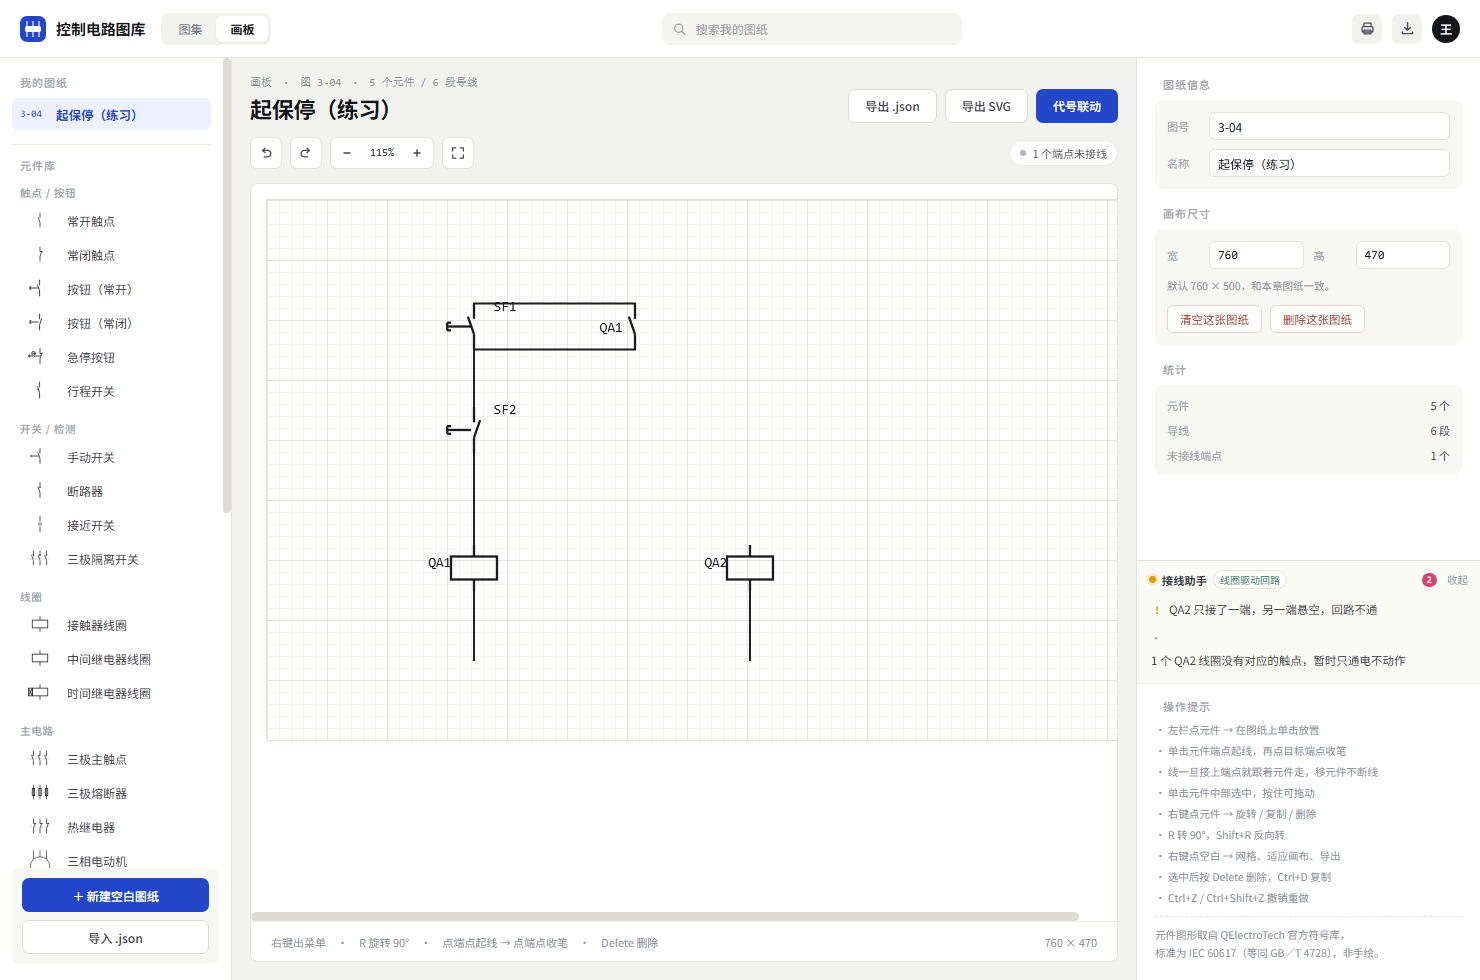
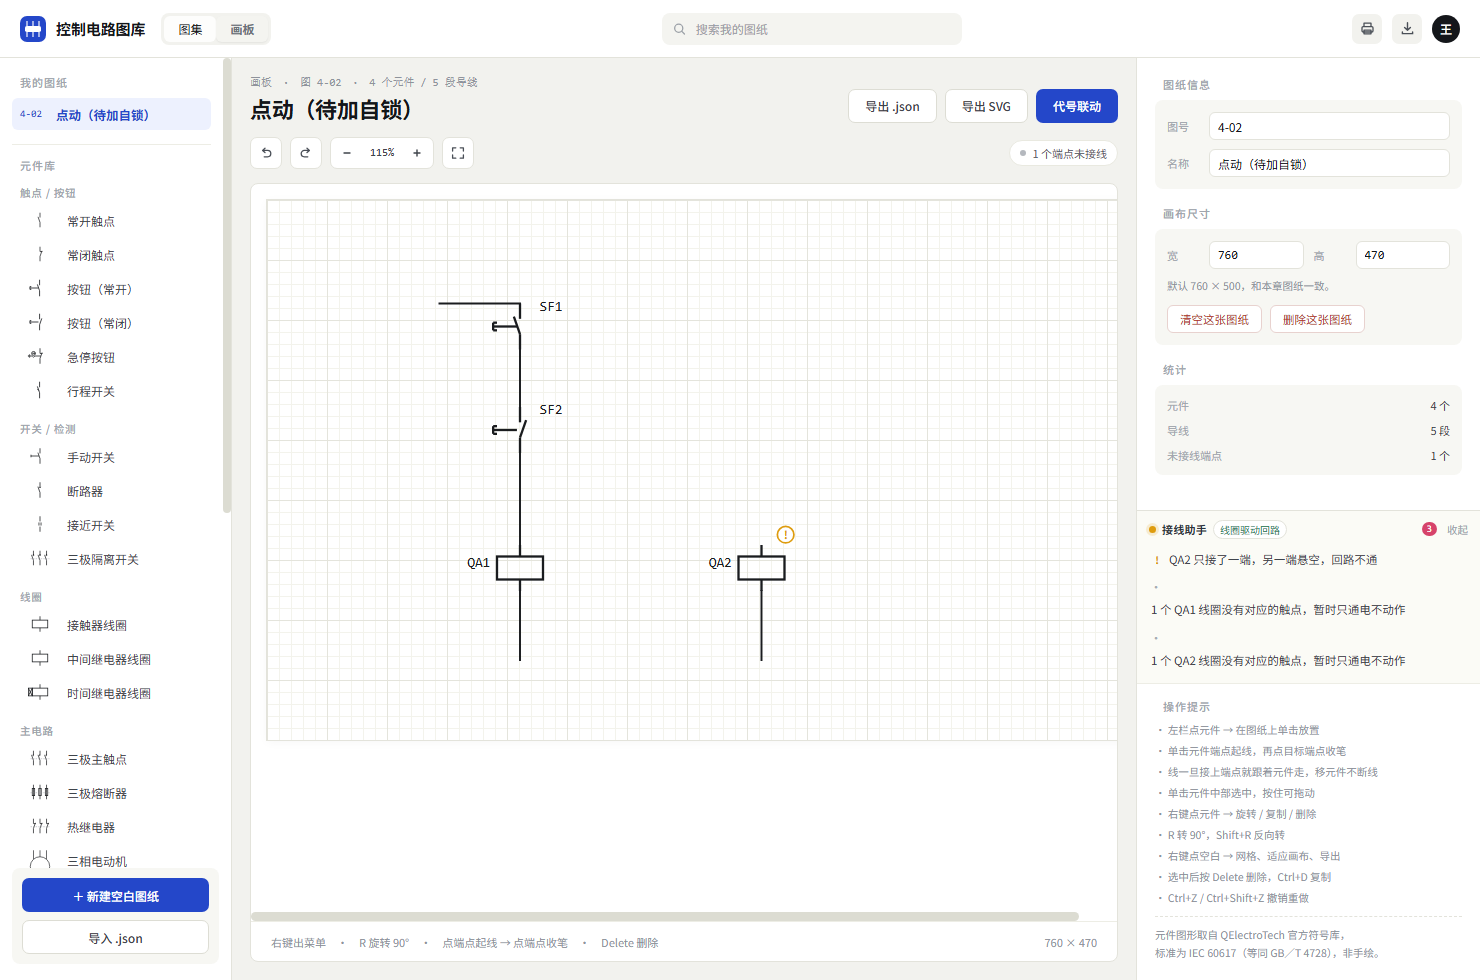
接线助手：画布定位标记 + 一键补自锁
- 诊断在 paint 时同步算一次，画布上直接在问题元件角上标 × / !
- 点动回路可一键补上同名常开触点并自动并联到按钮两端（补完助手自检为零问题）
- 线圈代号与框的间距从 2px 拉到 8px，不再贴边

diff --git a/js/editor-ui.js b/js/editor-ui.js
@@ -268,7 +268,10 @@
   function paint() {
     var d = st.doc;
     if (!d) return;
-    var inner = M.renderInner(d) + '<g class="ovl">' + overlaySvg() + '</g>';
+    var base = M.renderInner(d);   // 顺带把绑在引脚上的导线端点刷新到最新位置
+    // 诊断在这里同步算一次：画布标记和右侧面板共用，几十个元件 1ms 量级
+    st.adv = window.PLCAdvisor ? window.PLCAdvisor.analyze(d) : null;
+    var inner = base + '<g class="ovl">' + overlaySvg() + '</g>';
     el.canvas.innerHTML = M.svgWrap(d, inner);
     var svg = el.canvas.querySelector('svg');
     svg.classList.toggle('sim', !!st.sim);
@@ -354,6 +357,28 @@
     var r = selBox();
     if (r) o += '<rect class="sel-box" x="' + M.n(r.x) + '" y="' + M.n(r.y) +
       '" width="' + M.n(r.w) + '" height="' + M.n(r.h) + '"/>';
+
+    // 接线助手的问题标记：直接标在出问题的元件角上，不用来回看右栏
+    if (st.adv && st.adv.issues && st.adv.issues.length) {
+      var marked = 0;
+      st.adv.issues.forEach(function (it) {
+        if (marked >= 8 || it.level === 'info') return;
+        if (!it.target || it.target.kind !== 'comp') return;
+        var c = findComp(it.target.id);
+        if (!c) return;
+        var b = M.boxOf(c);
+        var mx = b.x + b.w + 3, my = b.y - 3;
+        var col = it.level === 'error' ? '#D6436B' : '#DE9C0E';
+        o += '<g class="adv-mark">' +
+          '<circle cx="' + M.n(mx) + '" cy="' + M.n(my) + '" r="7.2" fill="#FFFFFF" stroke="' +
+          col + '" stroke-width="1.5"/>' +
+          '<text x="' + M.n(mx) + '" y="' + M.n(my + 3.4) + '" font-size="9.5" font-weight="700" fill="' +
+          col + '" text-anchor="middle" font-family="' + M.SANS + '">' +
+          (it.level === 'error' ? '\u00d7' : '!') + '</text>' +
+          '</g>';
+        marked++;
+      });
+    }
 
     // 对齐参考线：拖元件时的共线提示
     if (st.guides && st.guides.length) {
@@ -1251,7 +1276,7 @@
       el.adv.innerHTML = '';
       return;
     }
-    var res = window.PLCAdvisor.analyze(st.doc);
+    var res = st.adv || window.PLCAdvisor.analyze(st.doc);
     st.adv = res;
 
     var dot = res.level === 'error' ? 'bad' : (res.level === 'warn' ? 'warn' : 'ok');
@@ -1268,6 +1293,13 @@
 
     if (!st.advOpen) { el.adv.innerHTML = head; return; }
 
+    // 能自动补的常见场景：点动回路还差一个自锁触点
+    var auto = canAutoSelfLock();
+    var act = auto
+      ? '<div class="adv-act"><span>差一个自锁触点</span>' +
+        '<button type="button" data-act="selflock">帮我放上</button></div>'
+      : '';
+
     var body = '';
     if (!res.issues.length) {
       body = '<div class="adv-empty">接法没问题，可以继续。</div>';
@@ -1283,12 +1315,81 @@
         body += '<div class="adv-more">另外还有 ' + (res.issues.length - 6) + ' 条</div>';
       }
     }
-    el.adv.innerHTML = head + '<div class="adv-body">' + body + '</div>';
+    el.adv.innerHTML = head + act + '<div class="adv-body">' + body + '</div>';
+  }
+
+  /* ---------- 一键补齐：给点动回路加自锁触点 ---------- */
+  function canAutoSelfLock() {
+    var res = st.adv;
+    if (!res || !res.intent || res.intent.key !== 'jog' || !st.doc) return null;
+    var btn = null, coil = null;
+    st.doc.comps.forEach(function (c) {
+      if (!btn && (c.type === 'btnNo' || (c.type === 'no' && /^S[A-Z]?/i.test(c.key || '')))) btn = c;
+      if (!coil && (c.type === 'coil' || c.type === 'kCoil') && c.key) coil = c;
+    });
+    if (!btn || !coil) return null;
+    // 已经同名的常开触点存在就不再多放
+    var has = st.doc.comps.some(function (c) {
+      return c.type === 'no' && c.key === coil.key;
+    });
+    if (has) return null;
+    return { btn: btn, coil: coil };
+  }
+
+  function occupiedAt(box) {
+    return st.doc.comps.some(function (c) {
+      var b = M.boxOf(c);
+      return !(b.x > box.x + box.w || b.x + b.w < box.x || b.y > box.y + box.h || b.y + b.h < box.y);
+    });
+  }
+
+  function wireBetween(a, b, ba, bb) {
+    var pts = [[a[0], a[1]]].concat(orthoPath([a[0], a[1]], [b[0], b[1]]));
+    var w = { id: M.uid('w'), pts: pts };
+    if (ba) w.a = ba;
+    if (bb) w.b = bb;
+    M.resolveWire(st.doc, w);
+    st.doc.wires.push(w);
+  }
+
+  function addSelfLock() {
+    var p = canAutoSelfLock();
+    if (!p) return;
+    var t = M.TYPES.no;
+    var probe = t.make(p.btn.x + 120, p.btn.y);
+    probe.type = 'no';
+    var tries = 0;
+    while (tries++ < 8 && occupiedAt(M.boxOf(probe))) {
+      probe.x += 70;
+      if (probe.x > st.doc.w - 90) { probe.x = p.btn.x - 120; }
+    }
+    var c = t.make(probe.x, probe.y);
+    c.type = 'no';
+    c.id = M.uid('c');
+    c.key = p.coil.key;
+    c.label = {
+      text: c.key, ox: t.label.ox, oy: t.label.oy,
+      anchor: t.label.anchor, size: t.label.size
+    };
+    st.doc.comps.push(c);
+
+    // 并联在按钮两端：按钮上脚 ↔ 自锁上脚，自锁下脚 ↔ 按钮下脚
+    var bp = M.pinsOfComp(p.btn), cp = M.pinsOfComp(c);
+    wireBetween(bp[0], cp[0], { c: p.btn.id, i: 0 }, { c: c.id, i: 0 });
+    wireBetween(cp[1], bp[1], { c: c.id, i: 1 }, { c: p.btn.id, i: 1 });
+
+    st.sel = { kind: 'comp', id: c.id };
+    commit();
+    paint();
+    renderInspector();
+    flash('已补上 ' + c.key + ' 自锁触点，并联在按钮两端');
   }
 
   function onAdvClick(e) {
     var tg = e.target.closest ? e.target.closest('.adv-toggle') : null;
     if (tg) { st.advOpen = !st.advOpen; renderAdvisor(); return; }
+    var ab = e.target.closest ? e.target.closest('.adv-act button') : null;
+    if (ab) { addSelfLock(); return; }
     var it = e.target.closest ? e.target.closest('.adv-item') : null;
     if (!it) return;
     var k = it.getAttribute('data-kind'), id = it.getAttribute('data-id');

diff --git a/js/editor-model.js b/js/editor-model.js
@@ -310,7 +310,7 @@
     coil: {
       name: '接触器线圈', grp: 'coil', tryKey: 'QA',
       make: function (x, y) { return { x: x, y: y, h: 40, key: '' }; },
-      label: { ox: -20, oy: 15, anchor: 'end', size: 12 },
+      label: { ox: -26, oy: 15, anchor: 'end', size: 12 },
       pins: function (c) { return [[c.x, c.y], [c.x, c.y + c.h]]; },
       box: function (c) { return { x: c.x - 18, y: c.y - 6, w: 36, h: c.h + 12 }; },
       svg: function (c) { return SYMLIB.draw('coil', c.x, c.y, c.h); }
@@ -409,7 +409,7 @@
     kCoil: {
       name: '中间继电器线圈', grp: 'coil', tryKey: 'KA',
       make: function (x, y) { return { x: x, y: y, h: 40, key: '' }; },
-      label: { ox: -20, oy: 14, anchor: 'end', size: 12 },
+      label: { ox: -26, oy: 14, anchor: 'end', size: 12 },
       pins: function (c) { return [[c.x, c.y], [c.x, c.y + c.h]]; },
       box: function (c) { return { x: c.x - 18, y: c.y - 6, w: 36, h: c.h + 12 }; },
       svg: function (c) { return SYMLIB.draw('coil', c.x, c.y, c.h); }
@@ -417,7 +417,7 @@
     ktCoil: {
       name: '时间继电器线圈', grp: 'coil', tryKey: 'KT',
       make: function (x, y) { return { x: x, y: y, h: 40, key: '' }; },
-      label: { ox: -20, oy: 15, anchor: 'end', size: 12 },
+      label: { ox: -26, oy: 15, anchor: 'end', size: 12 },
       pins: function (c) { return [[c.x, c.y], [c.x, c.y + c.h]]; },
       box: function (c) { return { x: c.x - 18, y: c.y - 6, w: 36, h: c.h + 12 }; },
       svg: function (c) { return SYMLIB.draw('coilSlowO', c.x, c.y, c.h); }

diff --git a/css/style.css b/css/style.css
@@ -749,3 +749,32 @@ input.pin:focus, input.pnum:focus {
 .adv-item span { flex: 1; }
 .adv-empty { padding: 6px 6px 2px; color: var(--ink-3); line-height: 1.6; }
 .adv-more { padding: 4px 6px 0; font-size: 10px; color: var(--ink-3); }
+
+/* 接线助手：一键补齐动作条 */
+.adv-act {
+  flex: 0 0 auto;
+  display: flex; align-items: center; gap: 8px;
+  margin: 0 8px 8px;
+  padding: 7px 8px 7px 9px;
+  background: #FFFFFF;
+  border: 1px dashed #D9DCE2;
+  border-radius: 6px;
+  font-size: 11px; color: #4A5058;
+}
+.adv-act span { flex: 1; line-height: 1.4; }
+.adv-act button {
+  flex: 0 0 auto;
+  border: 1px solid var(--accent);
+  background: var(--accent);
+  color: #FFFFFF;
+  border-radius: 5px;
+  padding: 3px 9px;
+  font-family: var(--sans);
+  font-size: 10.5px;
+  line-height: 1.5;
+  cursor: pointer;
+}
+.adv-act button:hover { filter: brightness(1.1); }
+
+/* 画布上的问题角标 */
+.adv-mark { pointer-events: none; }
